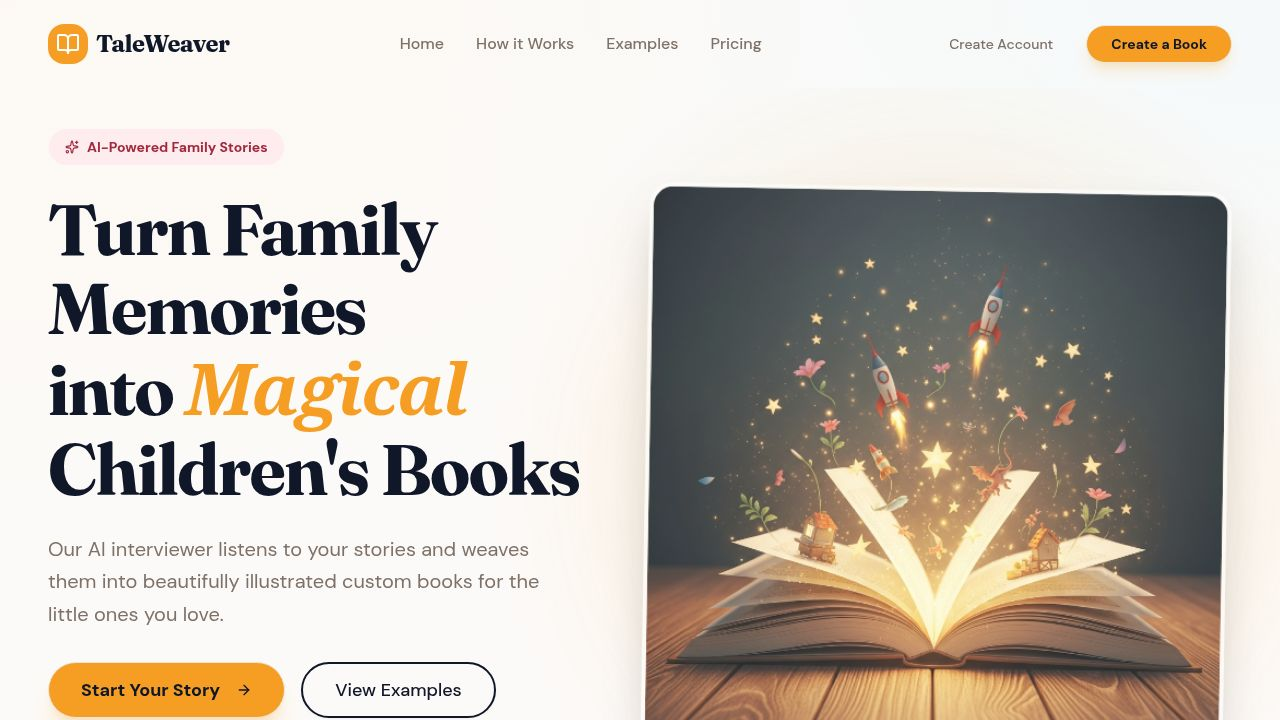
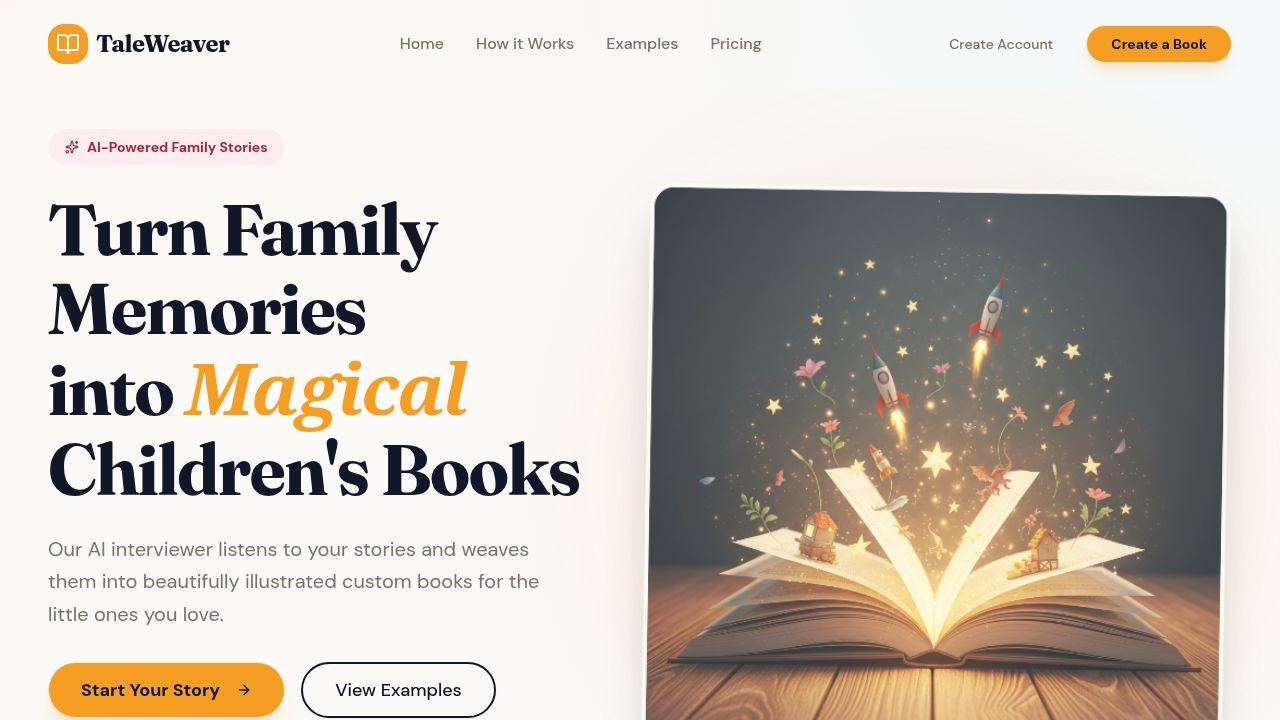
Expand example book stories to include more pages and illustrations
Increase the number of example pages for each book from 3 to 8, and add corresponding images to showcase longer narratives.

Replit-Commit-Author: Agent
Replit-Commit-Session-Id: b639b087-0bed-431b-ab66-47ec701dd105
Replit-Commit-Checkpoint-Type: full_checkpoint
Replit-Commit-Event-Id: e1a933b7-f6fc-42ea-803d-55bbd6ee54a6
Replit-Commit-Screenshot-Url: https://storage.googleapis.com/screenshot-production-us-central1/63db456a-2923-4ed6-84a3-1c5487e3badf/b639b087-0bed-431b-ab66-47ec701dd105/F78fn7q
Replit-Helium-Checkpoint-Created: true

Changed region(s): [[0.8438, 0.2444, 0.9375, 0.275], [0.5938, 0.2444, 0.625, 0.275], [0.5312, 0.2444, 0.5625, 0.275]]

diff --git a/client/src/pages/Home.tsx b/client/src/pages/Home.tsx
@@ -24,6 +24,26 @@ const EXAMPLE_BOOKS = [
       {
         text: "We finally made it! Planting our flag on a new world, we wave hello to our new alien friends. Mission accomplished!",
         image: "/images/page-career-3.png"
+      },
+      {
+        text: "Floating in zero gravity is the best feeling ever! It's like swimming through the air, surrounded by sparkling stars and colorful planets.",
+        image: "/images/page-career-4.png"
+      },
+      {
+        text: "Dinner time in space is tricky! Chasing floating blobs of soup with a spoon is a fun game we play every night.",
+        image: "/images/page-career-5.png"
+      },
+      {
+        text: "We met a friendly green alien today. He didn't speak our language, but a high-five means 'hello' in every galaxy!",
+        image: "/images/page-career-6.png"
+      },
+      {
+        text: "Before we left, we helped our new friends build a giant, colorful rocket ship out of space blocks so they could visit us someday.",
+        image: "/images/page-career-7.png"
+      },
+      {
+        text: "Time for bed in our cozy space bunks. Drifting off to sleep while watching the milky way spin outside the window. Goodnight, universe.",
+        image: "/images/page-career-8.png"
       }
     ]
   },
@@ -45,6 +65,26 @@ const EXAMPLE_BOOKS = [
       {
         text: "Look what grew! A giant prize-winning pumpkin. I'm going to need a bigger wheelbarrow for this one!",
         image: "/images/page-hobby-3.png"
+      },
+      {
+        text: "Every morning, I take my little blue watering can and give all the thirsty sprouts a cool drink to start their day.",
+        image: "/images/page-hobby-4.png"
+      },
+      {
+        text: "We have lots of tiny helpers in the garden! Friendly ladybugs and fuzzy caterpillars keep our leaves safe from bad bugs.",
+        image: "/images/page-hobby-5.png"
+      },
+      {
+        text: "Harvest day is the best day! My basket is overflowing with giant, crunchy carrots and the reddest tomatoes you've ever seen.",
+        image: "/images/page-hobby-6.png"
+      },
+      {
+        text: "The sunflowers grew so tall they touch the sky! I have to stand on my tiptoes just to smell them while the bees buzz happily.",
+        image: "/images/page-hobby-7.png"
+      },
+      {
+        text: "As the sun sets, the garden glows golden. I sit quietly with my watering can, thankful for the magic that grows from the dirt.",
+        image: "/images/page-hobby-8.png"
       }
     ]
   },
@@ -66,6 +106,26 @@ const EXAMPLE_BOOKS = [
       {
         text: "Finally, time to relax on the beach. The sun is warm, the coconut water is sweet, and the waves are singing to us.",
         image: "/images/page-travel-3.png"
+      },
+      {
+        text: "Looking out the airplane window feels like flying on a magic carpet. The fluffy white clouds look like mountains of cotton candy below us.",
+        image: "/images/page-travel-4.png"
+      },
+      {
+        text: "Choo choo! Riding the fast red train through the tall, green mountains is thrilling. We zip past trees and rivers in a flash.",
+        image: "/images/page-travel-5.png"
+      },
+      {
+        text: "Today we sailed on a little boat across the bright blue ocean. A family of friendly dolphins raced beside us, jumping high in the air!",
+        image: "/images/page-travel-6.png"
+      },
+      {
+        text: "We climbed up, up, up to the top of a snowy mountain peak. It was chilly, but our colorful scarves kept us warm and snug.",
+        image: "/images/page-travel-7.png"
+      },
+      {
+        text: "After a long day of exploring, we pitched our cozy tent under a huge starry sky. The crickets sang us a lullaby as we fell asleep.",
+        image: "/images/page-travel-8.png"
       }
     ]
   },
@@ -87,6 +147,26 @@ const EXAMPLE_BOOKS = [
       {
         text: "Dinner is served! The best part of cooking is sharing a big meal with everyone we love.",
         image: "/images/page-cooking-3.png"
+      },
+      {
+        text: "Our cooking adventure starts at the farmer's market! Grandma lets me help carry the bags full of colorful, fresh vegetables and fruits.",
+        image: "/images/page-cooking-4.png"
+      },
+      {
+        text: "Chop, chop, chop! I'm learning how to carefully slice the giant carrots with my special plastic knife. Grandma says I'm a natural chef.",
+        image: "/images/page-cooking-5.png"
+      },
+      {
+        text: "Now it's time to stir the big, bubbling pot of soup. The delicious smelling steam tickles my nose and makes my tummy rumble!",
+        image: "/images/page-cooking-6.png"
+      },
+      {
+        text: "The best part of baking is watching through the oven door. The flat dough magically puffs up into perfect, warm chocolate chip cookies.",
+        image: "/images/page-cooking-7.png"
+      },
+      {
+        text: "Even washing the dishes is fun when we do it together! Grandma and I make giant soap bubble mountains in the sink.",
+        image: "/images/page-cooking-8.png"
       }
     ]
   }